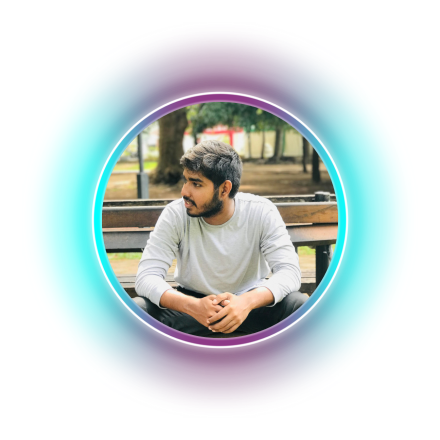
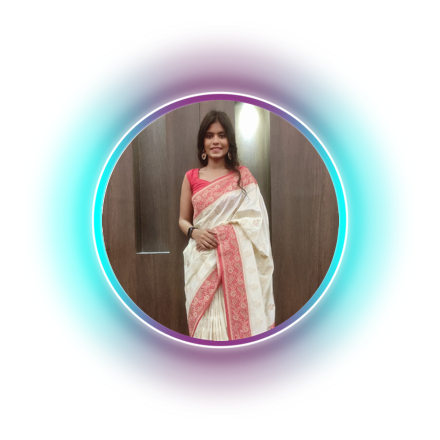
commit10

Changed region(s): [[0.2364, 0.2068, 0.7682, 0.7977]]

diff --git a/stylesheet.css b/stylesheet.css
@@ -6,6 +6,7 @@ font-family:"poppins", sans-serif ;
 }
 body{
     color: hsl(111, 100%, 48%);
+    background: #081b29;
 }
 .header{
     position: fixed;
@@ -13,7 +14,7 @@ body{
     left:0;
     width:100%;
     padding: 20px 10%;
-    background: transparent;
+    background: #051129;
     display:flex;
     justify-content: space-between;
     align-items: center;
@@ -25,6 +26,10 @@ body{
     color: #e6ed18;
     text-decoration:none;
     font-weight: 600;
+    cursor:default;
+    opacity:0;
+    animation: slideRight 1s ease forwards;
+
 
 }
 .navbar a{
@@ -35,6 +40,9 @@ body{
     font-weight: 500;
     margin-left: 35px;
     transition: .3s;
+    opacity: 0;
+    animation: slideTop .5s ease forwards;
+    animation-delay: calc(.2s*var(--i));
 
 }
 
@@ -60,15 +68,31 @@ body{
 .home-content h3{
     font-size: 32px;
     font-weight:700 ;
+    opacity: 0;
+    animation: slideBottom 1s ease forwards;
+    animation-delay: .7s;
 
+}
+.home-content h3:nth-of-type(2){
+    margin-bottom:30px;
+    animation: slideTop 1s ease forwards;
+    animation-delay: .7s;
+}
+.home-content h3 span{
+    color:#0ef;
 }
 .home-content h1{
     font-size: 56px;
     font-weight: 700;
     margin: -3px 0;
+    animation: slideRight 1s ease forwards;
+    animation-delay: 1s;
 }
 .home-content p{
     font-size: 20px;
+    opacity: 0;
+    animation: slideLeft 1s ease forwards;
+    animation-delay: 1s;
 }
 .home-sci a{
     display: inline-flex;
@@ -82,7 +106,13 @@ body{
     font-size: 20px;
     color:#0ef;
     text-decoration: none;
+    transition: .5s ease;
+   
+    opacity: 0;
+    animation: slideLeft 1s ease forwards;
+    animation-delay: calc(.2s *var(--i));
     margin: 30px 15px 30px 0;
+
 }
 .home-sci a:hover{
     background:#0ef;
@@ -100,6 +130,11 @@ body{
     letter-spacing: 1px;
     text-decoration: none;
     font-weight:600 ;
+    opacity: 0;
+    animation: slideTop 1s ease forwards;
+    animation-delay: 2s;
+    box-shadow: 0 0 5px #0ef,
+    0 0 25px #0ef
 
 
 
@@ -110,3 +145,88 @@ body{
     0 0 100px cyan , 0 0 200px cyan
 
 }
+.about{
+    display:grid;
+    grid-template-columns: repeat(2,1fr);
+    align-items: center;
+    gap: 1.5rem;
+
+}
+.about-img img{
+    padding-bottom:20% ;
+    max-width:630px ;
+    height: auto;
+    width: 100%;
+    border-radius: 8px;
+}
+.about-text h2{
+    font-size: 60px;
+
+
+}
+.about-text h2 span{
+    color: #0ef;
+
+
+}
+.about-text h4{
+    font-size: 29px;
+    font-weight:600 ;
+    color: #fff;
+    line-height:1.7 ;
+    margin:15px 0 38px ;
+
+
+}
+.about-text p{
+    color: aliceblue;
+    font-size: 20px;
+    line-height:1.4 ;
+    margin-bottom: 4rem;
+}
+
+@keyframes slideRight{
+    0%{
+        transform:translateX(-100px);
+        opacity: 0;
+    }
+    100%{
+        transform:translateX(0px);
+        opacity: 1;
+    }
+}
+
+@keyframes slideLeft{
+    0%{
+        transform:translateX(100px);
+        opacity: 0;
+    }
+    100%{
+        transform:translateX(0px);
+        opacity: 1;
+    }
+}
+
+@keyframes slideTop{
+    0%{
+        transform:translateY(100px);
+        opacity: 0;
+    }
+    100%{
+        transform:translateY(0px);
+        opacity: 1;
+    }
+}
+
+@keyframes slideBottom{
+    0%{
+        transform:translateY(-100px);
+        opacity: 0;
+    }
+    100%{
+        transform:translateY(0px);
+        opacity: 1;
+    }
+}
+
+

diff --git a/index.html b/index.html
@@ -7,16 +7,17 @@
       <title>Portfolio</title>
       <link rel="stylesheet" href="stylesheet.css">
       <link href='https://unpkg.com/boxicons@2.1.4/css/boxicons.min.css' rel='stylesheet'>
+      <script src="https://unpkg.com/typed.js@2.1.0/dist/typed.umd.js"></script>
       </head>
       <body>
         <header class="header">
           <a href="#" class="logo">Portfolio</a>
           <nav class="navbar">
-            <a href="#" >Home</a>
-            <a href="#">About</a>
-            <a href="#">Skill</a>
-            <a href="#">Portfolio</a>
-            <a href="#">Contact</a>
+            <a href="#" style="--i:1" class="active" >Home</a>
+            <a href="#" style="--i:2">About</a>
+            <a href="#" style="--i:3">Skill</a>
+            <a href="#" style="--i:4">Portfolio</a>
+            <a href="#" style="--i:5">Contact</a>
           </nav>
         </header>
         <section class="home">
@@ -29,10 +30,10 @@
                 <br> Expertise is to create visually appealing user 
                 interfaces, Full stack designing,and many more.
                 <div class="home-sci">
-                  <a href="#"><i class='bx bxl-linkedin' ></i></a>
-                  <a href="#"><i class='bx bxl-github'></i></a>
-                  <a href="#"><i class='bx bxl-whatsapp' ></i></a>
-                  <a href="#"><i class='bx bxl-gmail' ></i></a>
+                  <a href="#" style="--i:7"><i class='bx bxl-linkedin' ></i></a>
+                  <a href="#" style="--i:8"><i class='bx bxl-github'></i></a>
+                  <a href="#" style="--i:9"><i class='bx bxl-whatsapp' ></i></a>
+                  <a href="#" style="--i:10"><i class='bx bxl-gmail' ></i></a>
 
 
                     
@@ -42,7 +43,35 @@
   
 
             </div>
+            <span class="home-imgHover"></span>
         </section>
+        <section class="about" id="about">
+          <div class="about-img">
+            <img src="Futuristic Neon Blue And Pink Light Instagram Profile Picture.png"/>
+
+          </div>
+          <div class="about-text">
+            <h2>About<span>Me</span></h2>
+            <h4>Full Stack Developer!</h4>
+            <p>
+              I am a skilled web designer. My skills include captivating website design 
+              an implementing them through dynamic and appealing user interfaces with the help of frontend and backend 
+              technologies. I have worked on frameworks like Next.js,Vite.js,Bootstrap and many more.
+              Morever, have created projects using MongoDB and MySQL for database management.
+              My technical skills also include data structures and algorithms, database management system,opject oriented programming. I have a passion for programming and I am familiar with C,C++ ,Java,Python 
+              and javascript languages. I am open to learn new technologies and stay up-to-date with the trending technologies in the IT sector.
+
+            </p>
+            <a href="#" class="btn-box">More About Me</a>
+          </div>
+        </section>
+
+
+
+
+
+
+        <script src="main.js"></script>
       </body>
   </body>
 </html>

diff --git a/main.js b/main.js
@@ -1,0 +1,7 @@
+var typed=new typed(".text",{
+    String:["Full Stack Web Development","Javascript Developer",  "Worked On MongoDB/MySQl Databases"],
+    typeSpeed:100,
+    backSpeed:100,
+    backDelay:1000,
+    loop:true
+});
